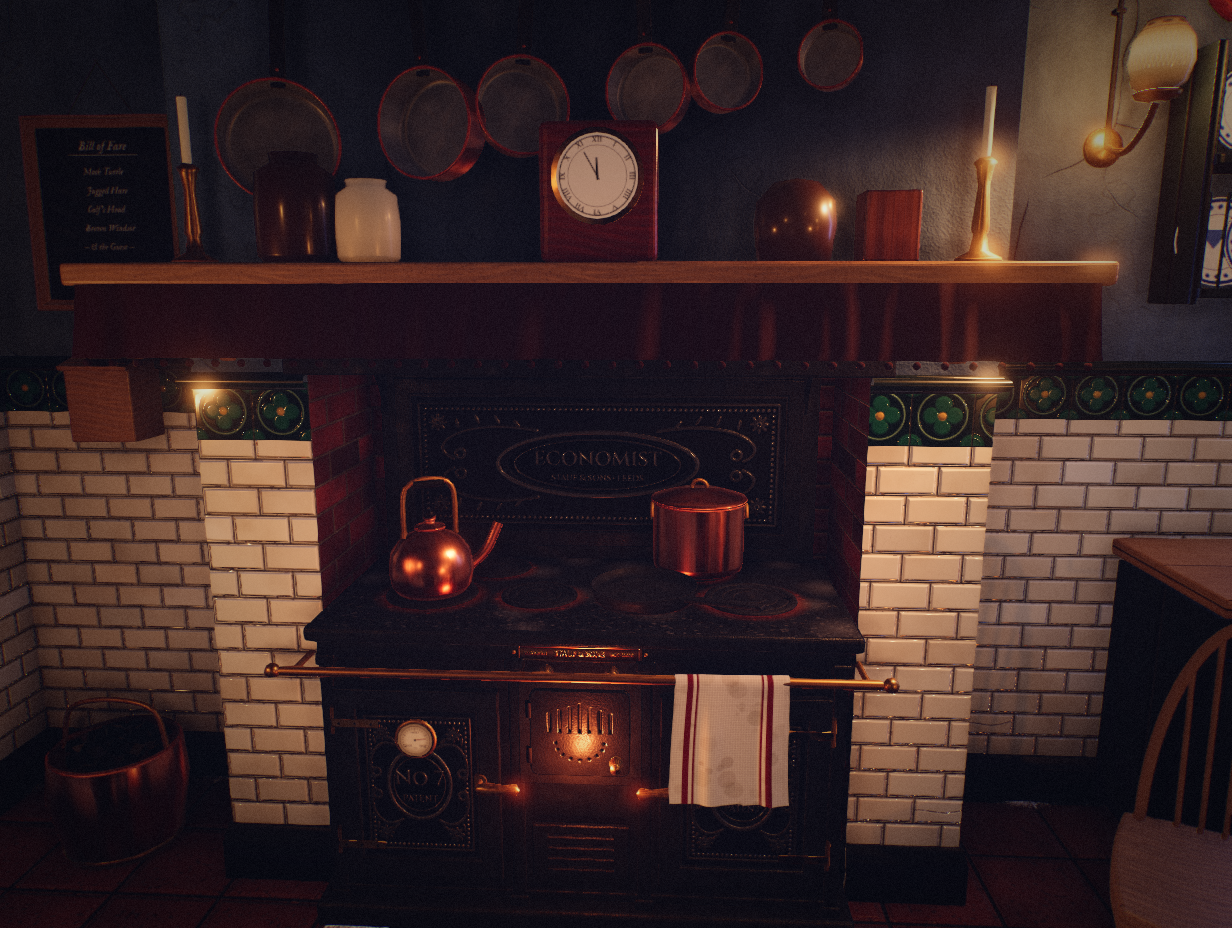
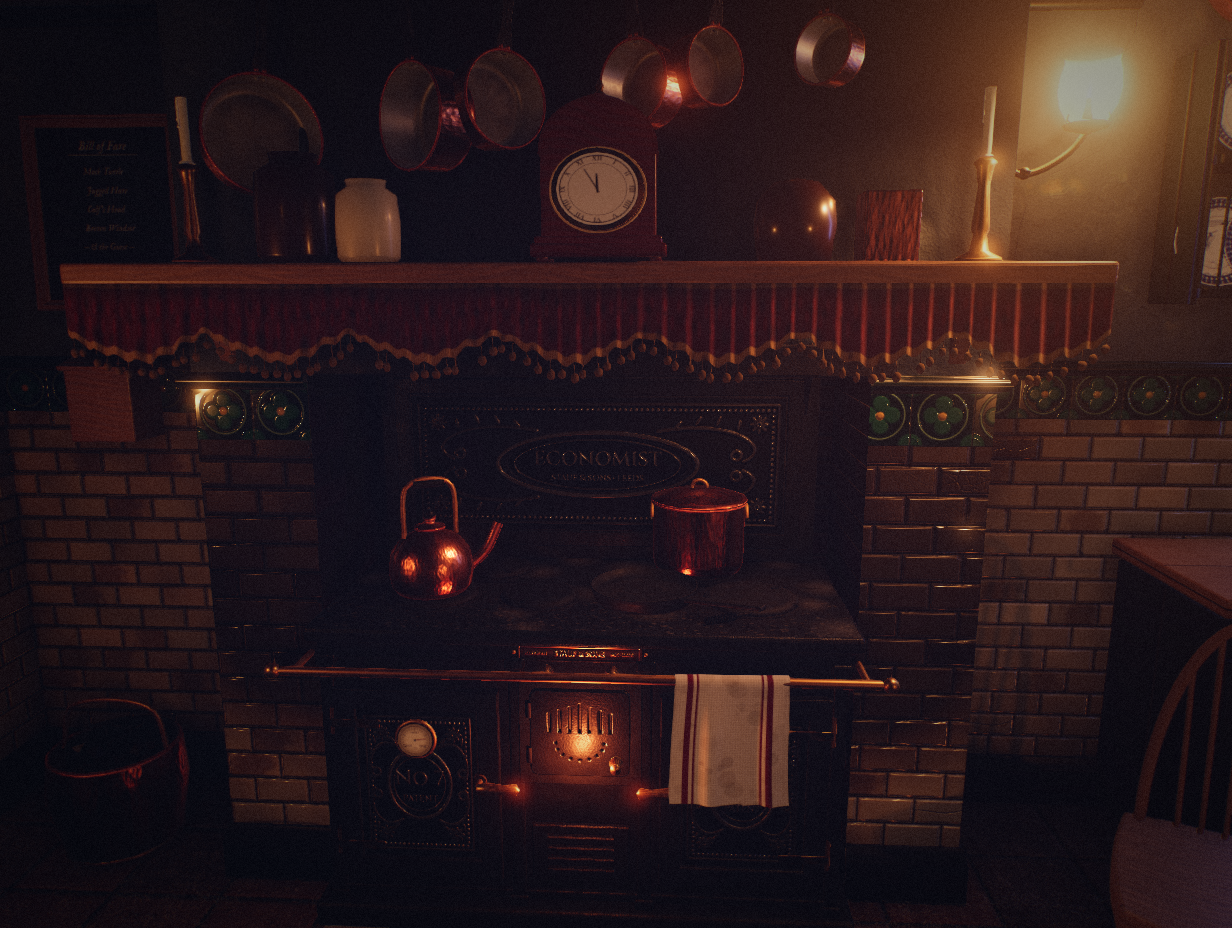
WIP kitchen

diff --git a/src/rooms/kitchen/textures.js b/src/rooms/kitchen/textures.js
@@ -757,7 +757,7 @@ const FOOT_GLSL = /* glsl */ `
  */
 export function flourDecalTexture(forge, { size = 2560, rect = [-3.2, 3.4, 6.4, 7.2], block = [0.2, -0.6], blockHalf = [0.7, 0.34], kerb = [-1.97, -0.63, -3.1], sack = [-1.1, -1.45], sacks = [], tile = [-3.2, 3.4, 0.3], trail = [[0.05, -0.62], [2.95, -1.2]] } = {}) {
   const S = sacks.slice(0, 4); while (S.length < 4) S.push([99, 99, 0.01]);
-  return forge.generate('kitchen:flour18', {
+  return forge.generate('kitchen:flour19', {
     size, aspect: rect[2] / rect[3], tile: false, normalStrength: 0.7,
     uniforms: { uRect: rect, uBlock: [...block, ...blockHalf], uKerb: kerb, uSack: sack, uS0: S[0], uS1: S[1], uS2: S[2], uS3: S[3], uTile: tile, uP0: trail[0], uP1: trail[1] },
     glsl: /* glsl */ `
@@ -811,8 +811,8 @@ export function flourDecalTexture(forge, { size = 2560, rect = [-3.2, 3.4, 6.4, 
       vec2 rA = vec2(0.2, -0.3), rB = vec2(0.55, 3.3), rC = vec2(3.2, 2.25);
       vec2 pa = w - rA, ba = rB - rA; float hA = clamp(dot(pa, ba) / dot(ba, ba), 0.0, 1.0);
       vec2 pc = w - rA, bc2 = rC - rA; float hC = clamp(dot(pc, bc2) / dot(bc2, bc2), 0.0, 1.0);
-      float route = max(exp(-pow(length(pa - ba * hA) / 0.3, 2.0)) * (1.0 - hA * 0.95), exp(-pow(length(pc - bc2 * hC) / 0.26, 2.0)) * (1.0 - hC * 0.9));
-      a = max(a, route * 0.3 * (0.4 + 0.8 * n3) * smoothstep(0.3, 0.7, n2 + 0.2));
+      float route = max(exp(-pow(length(pa - ba * hA) / 0.26, 2.0)) * max(0.0, 1.0 - hA * 1.15), exp(-pow(length(pc - bc2 * hC) / 0.24, 2.0)) * max(0.0, 1.0 - hC * 1.05));
+      a = max(a, route * 0.26 * (0.4 + 0.8 * n3) * smoothstep(0.3, 0.7, n2 + 0.2));
       // broom: soft arcs that thin the spill, a drag mark from the sack to the pantry
       vec2 bc = w - vec2(-0.6, 0.3);
       float br = length(bc);

diff --git a/src/rooms/kitchen/index.js b/src/rooms/kitchen/index.js
@@ -2256,7 +2256,7 @@ export default {
     const gasLights = [];
     {
       // thin acid-etched glass: mostly transparent, a faint warm glow where the flame lights it from inside
-      const globeMat = new THREE.MeshPhysicalMaterial({ color: 0xf4ece0, emissive: new THREE.Color(1.0, 0.74, 0.46), emissiveMap: CV.mantle, emissiveIntensity: 0.14, roughness: 0.35, transparent: true, opacity: 0.38, depthWrite: false, side: THREE.DoubleSide, clearcoat: 1, clearcoatRoughness: 0.1, name: 'gasGlobe' });
+      const globeMat = new THREE.MeshPhysicalMaterial({ color: 0xf4ece0, emissive: new THREE.Color(1.0, 0.74, 0.46), emissiveMap: CV.mantle, emissiveIntensity: 0.09, roughness: 0.35, transparent: true, opacity: 0.36, depthWrite: false, side: THREE.DoubleSide, clearcoat: 1, clearcoatRoughness: 0.1, name: 'gasGlobe' });
       const spots = [
         { p: V3(X0, 1.98, 0.15), ry: Math.PI / 2, i: 2.4 },          // left wall, beyond the dresser
         { p: V3(X1, 1.98, -0.42), ry: -Math.PI / 2, i: 1.7 },        // right wall, by the dumbwaiter
